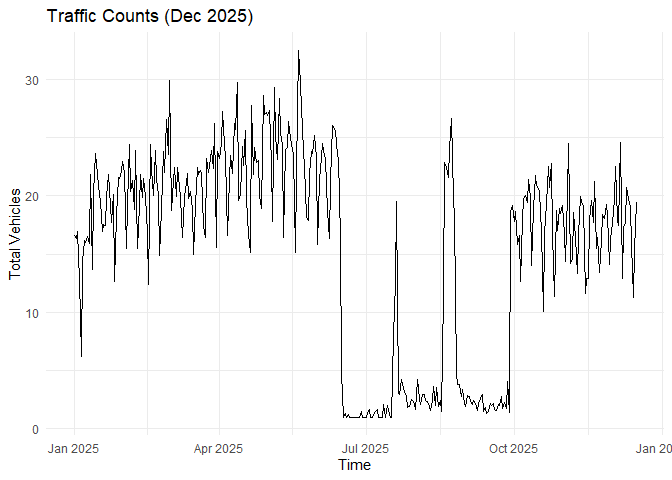
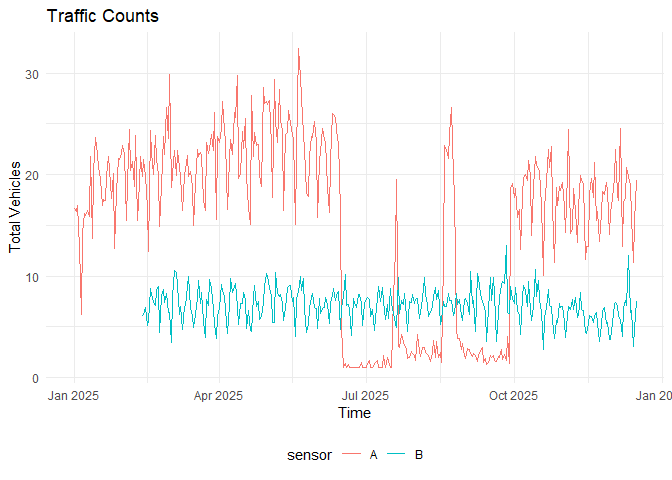
Multiple counters

diff --git a/README.md b/README.md
@@ -106,27 +106,30 @@ limits. Here’s a 365-day example:
 from_year <- as.POSIXct("2025-01-01", tz = "UTC")
 to_year <- as.POSIXct("2025-12-17", tz = "UTC")
 
-yearly_counts <- get_countline_counts(sampled_ids[1], from = from_year, to = to_year)
+yearly_counts <- get_countline_counts(sampled_ids[1:2], from = from_year, to = to_year)
 ```
 
 ``` r
 nrow(yearly_counts)
-#> [1] 6792
+#> [1] 13275
 range(yearly_counts$from)
 #> [1] "2025-01-01 00:00:00 UTC" "2025-12-16 23:00:00 UTC"
 # Let's plot the average daily counts for this counter:
 yearly_counts |>
-  group_by(day = as.Date(from)) |>
+  mutate(sensor = id_lookup[id]) |>
+  group_by(sensor, day = as.Date(from)) |>
   summarise(count = mean(count)) |>
-  ggplot(aes(x = day, y = count)) +
+  ggplot(aes(x = day, y = count, color = sensor)) +
   geom_line() +
   labs(
-    title = "Traffic Counts (Dec 2025)",
+    title = "Traffic Counts",
     x = "Time",
     y = "Total Vehicles"
   ) +
   theme_minimal() +
   theme(legend.position = "bottom")
+#> `summarise()` has grouped output by 'sensor'. You can override using the
+#> `.groups` argument.
 ```
 
 <img src="man/figures/README-yearly_stats-1.png" width="100%" />
